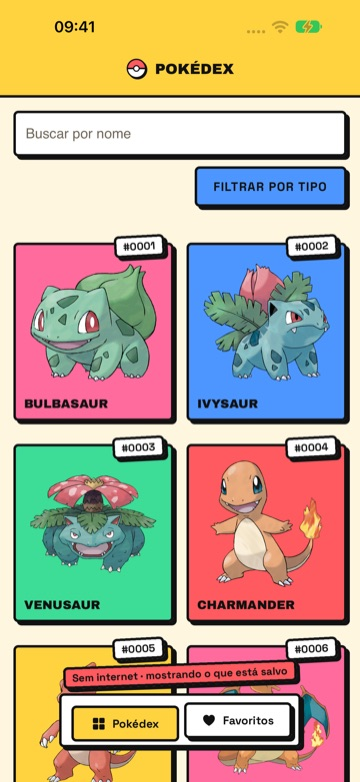
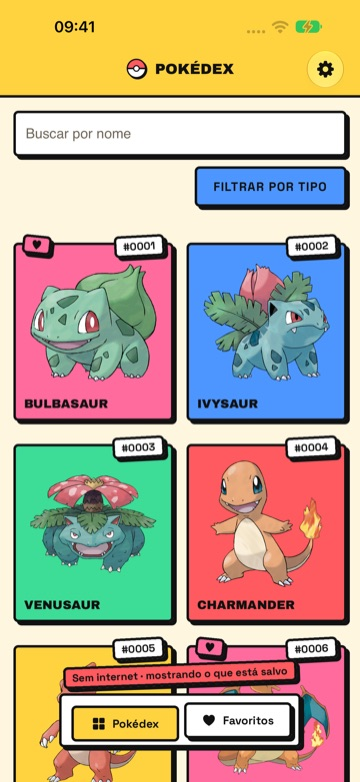
docs: README com configurações, galeria de 12 telas e ajuda para instalar o APK
- refaz Pokédex, filtro, tema escuro e sem internet com a engrenagem no cabeçalho
- adiciona Favoritos, Configurações e Em inglês à galeria
- rota settings.tsx na estrutura e o que fazer quando o APK não instala

Changed region(s): [[0.8556, 0.0614, 0.9472, 0.1228], [0.55, 0.798, 0.6417, 0.8593], [0.0611, 0.2762, 0.1528, 0.3376]]

diff --git a/README.md b/README.md
@@ -31,6 +31,11 @@ Bordas grossas, sombras duras e cores chapadas, com os dados da [PokéAPI](https
     <td align="center"><img src="docs/screenshots/comparacao.jpg" width="170" alt="Comparação entre Vaporeon e Jolteon"><br><sub><b>Comparar status</b></sub></td>
   </tr>
   <tr>
+    <td align="center"><img src="docs/screenshots/favoritos.jpg" width="170" alt="Aba Favoritos com quatro Pokémon"><br><sub><b>Favoritos</b></sub></td>
+    <td align="center"><img src="docs/screenshots/configuracoes.jpg" width="170" alt="Configurações de tema, idioma, dados salvos e sobre"><br><sub><b>Configurações</b></sub></td>
+    <td align="center"><img src="docs/screenshots/ingles.jpg" width="170" alt="Detalhes do Pikachu com o app em inglês"><br><sub><b>Em inglês</b></sub></td>
+  </tr>
+  <tr>
     <td align="center"><img src="docs/screenshots/tema-escuro.jpg" width="170" alt="Pokédex no tema escuro"><br><sub><b>Tema escuro</b></sub></td>
     <td align="center"><img src="docs/screenshots/sem-internet.jpg" width="170" alt="Pokédex sem internet, com o aviso acima das abas"><br><sub><b>Sem internet</b></sub></td>
     <td align="center"><img src="docs/screenshots/splash.jpg" width="170" alt="Splash amarela com a Poké Bola"><br><sub><b>Splash</b></sub></td>
@@ -84,7 +89,15 @@ O build usa o [EAS](https://docs.expo.dev/build/introduction/), configurado em `
 npx eas-cli@latest build -p android --profile preview --local
 ```
 
-Para instalar no emulador, arraste o `.apk` para a janela dele ou use `adb install arquivo.apk`. O identificador do app é `com.fabio.dev.pokeapp`, no Android e no iOS. Os arquivos gerados (`.apk`, `.aab`, `.ipa`) ficam fora do git.
+Para instalar no emulador, arraste o `.apk` para a janela dele ou use `adb install -r arquivo.apk`. O identificador do app é `com.fabio.dev.pokeapp`, no Android e no iOS. Os arquivos gerados (`.apk`, `.aab`, `.ipa`) ficam fora do git. O app abre no idioma do aparelho; dá para fixar português ou inglês nas Configurações.
+
+Se o Android disser que **ocorreu um problema ao instalar o pacote**:
+
+- desinstale a versão anterior: o Android não atualiza um app assinado com outra chave nem volta para um `versionCode` menor;
+- confira se o arquivo chegou inteiro (o tamanho tem que bater com o do Mac): envios por mensagem ou nuvem às vezes cortam o APK;
+- permita "Instalar apps desconhecidos" para o app que abriu o arquivo (Arquivos, Chrome, Drive).
+
+Pelo cabo, com a depuração USB ligada, o `adb install -r arquivo.apk` mostra o motivo exato.
 
 ## ✅ Antes de terminar uma mudança
 
@@ -111,7 +124,8 @@ src/
 ├─ app/            telas e navegação (Expo Router)
 │  ├─ (tabs)/      abas Pokédex e Favoritos
 │  ├─ pokemon/     detalhes: /pokemon/pikachu
-│  └─ compare.tsx  comparação: /compare?a=pikachu&b=raichu
+│  ├─ compare.tsx  comparação: /compare?a=pikachu&b=raichu
+│  └─ settings.tsx configurações: tema, idioma, dados salvos e sobre
 ├─ components/     peças visuais (BrutalBox, PokemonCard, SearchBar…)
 ├─ constants/      tokens do estilo e cores dos tipos
 ├─ features/
